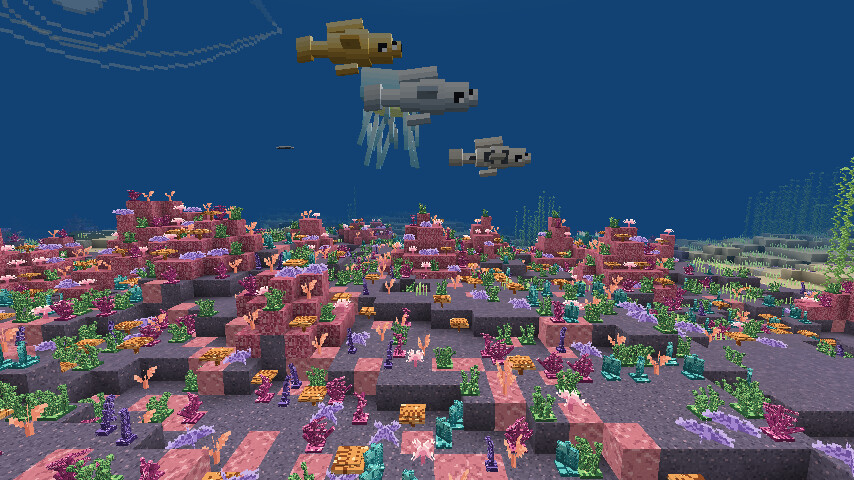
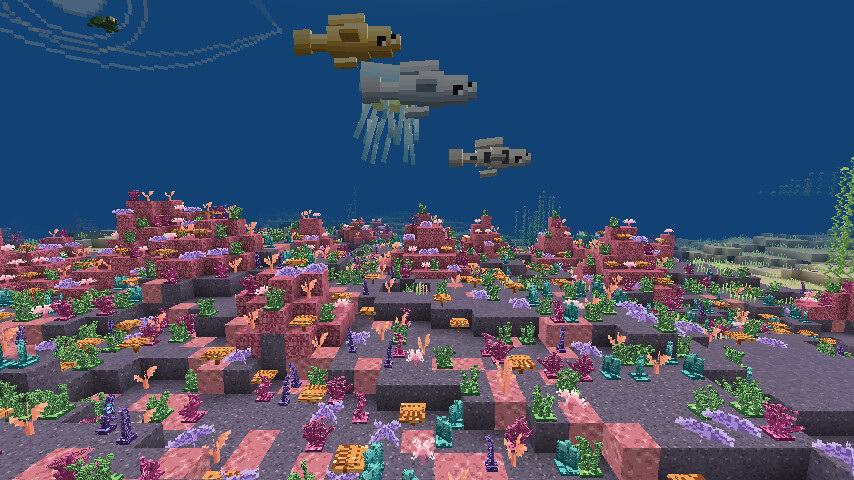
Рев 11.24 [release v0.9.0]: отчёт по рыбам с кадрами всех 11 видов и живыми числами

diff --git a/reports/rev11/README.md b/reports/rev11/README.md
@@ -94,16 +94,36 @@ CI требует `branches >= 5` и `leaves >= 20`. Кадры: `14_tree_branch
   градиент спина→брюхо, полосы/крапины по виду, глаза на голове, зубы в пасти, светящаяся приманка;
 * `client/geo/GeoModel.java` грузит JSON, собирает ванильный `ModelPart`-скелет и анимирует кости;
 * `client/SeaFishRenderer.java` рисует **все** кости (`getAllParts`) — иначе виден ровно один серый ящик;
-* тела переделаны из трёх сегментов (одиночный `addBox` давал «куб» вместо рыбы).
+* тела рыб — из трёх сегментов (одиночный `addBox` давал «куб» вместо рыбы).
 
-Лог клиента по всем 11 видам (`ciart17`): `jelly 10 костей/11 деталей`, `ray 5/6`, `turtle 6/7`,
-`silver/gold/striped/surgeon/eel 6/7`, `gloom 6/7`, `angler 5/6`, `sting 7/8`; ошибок загрузки — 0.
+Каждый вид переделан по своему живому кадру (не «все скопом»):
 
+| Вид | Что было не так | Что сделано |
+|---|---|---|
+| `silver`, `gold`, `striped`, `surgeon` | тело-куб | три сегмента с сужением к хвосту, спинной/брюшной плавники, грудные плавники на шарнирах |
+| `jelly` | щупальца росли ВВЕРХ из купола («свечки на кубе») | купол + 5 щупалец и 4 ротовые лопасти вниз |
+| `ray` | плоский «утюг» | диск с утолщением, ступенчатые крылья в два пера, хлыст-хвост, глаза сверху |
+| `angler` | приманка торчала назад, пасть внутри головы | пасть вынесена вперёд, нижняя челюсть на шарнире, приманка на стебле над головой |
+| `eel` | все сегменты в одной точке → кирпич | пять сегментов цепочкой по Z, голова с пастью впереди, спинная складка |
+| `turtle` | голова и ласты ВНУТРИ панциря → плита | купол из трёх ступеней, шея и голова вперёд, четыре ласта и хвост |
+| `gloom` | пасть внутри головы, зубы торчали из боков | узкое тело с сужением, верхняя и нижняя челюсти впереди, биолюминесцентные точки |
+| `sting` | как у `jelly` — щупальца вверх | шесть длинных щупалец вниз от купола |
+
+Отдельная находка: **в клиенте ось +Y смотрит вверх**, а в координатах коробок JSON «низ» — это +Y.
+Из-за этого плавники и щупальца сначала оказались вывернутыми; соглашение зафиксировано в коде
+и в оффлайн-превью.
+
+Чтобы не гонять 20-минутный CI ради каждой правки формы, добавлен
+**`tools/rift/preview_geo.py`** — ортографический рендер тех же JSON и текстур на Python (секунды),
+с флагом `--axis` (маркеры верха/низа). Все правки выше проверены сначала им, потом живым клиентом.
+
+Лог клиента: `geo jelly: 10 костей/11 деталей`, `ray 5/6`, `turtle 7/12`, `eel 7/12`,
+`silver/gold/striped/surgeon 6/10`, `gloom 7/22`, `angler 5/12`, `sting 7/8`; ошибок загрузки — 0.
 CI снимает **каждый вид отдельным кадром** (`model_00_silver` … `model_10_sting`), рыба стоит к камере
-боком (`Rotation:[90f,0f]`), чтобы был виден профиль, плавники и хвост.
+боком (`Rotation:[90f,0f]`), поэтому виден профиль, плавники и хвост.
 
-![рыба](shots/model_00_silver.jpg)
-![рыба](shots/model_08_turtle.jpg)
+![все 11 видов](shots/fish_grid.jpg)
+![рыбы в рифе](shots/10_fish_reef.jpg)
 
 ## 4. Пещеры: вода по направлению хода, а не «на рандом»
 
